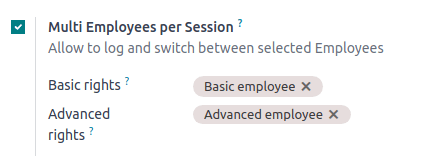
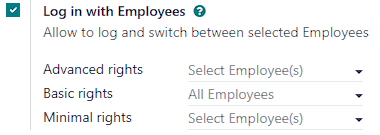
[IMP] pos: access rights screenshot and steps
task-4804410

closes odoo/documentation#13433

X-original-commit: f3b9ca903a190851fc2882a81ecb011e67943830

diff --git a/content/applications/sales/point_of_sale/employee_login.rst b/content/applications/sales/point_of_sale/employee_login.rst
@@ -22,6 +22,8 @@ settings <configuration/settings>`. Then,
 #. Activate the :guilabel:`Log in with Employees` feature.
 #. Add the employees with **basic POS functionality** access in the :guilabel:`Basic rights` field.
 #. Add the employees with **extended POS functionalities** in the :guilabel:`Advanced rights` field.
+#. Add the employees with **minimal POS functionality** access in the :guilabel:`Minimal rights`
+   field.
 
 .. image:: employee_login/activate-setting.png
    :alt: setting to enable multiple cashiers in POS
